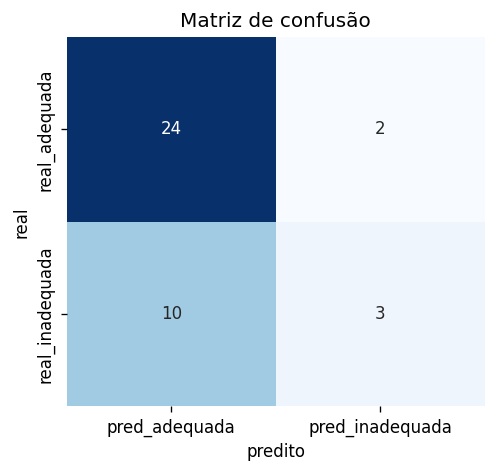
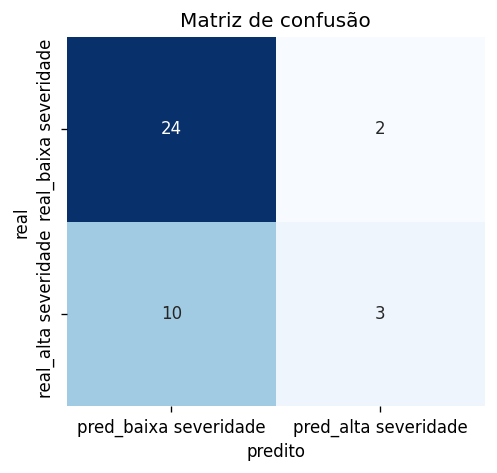
correção dados_organizados.csv

Changed region(s): [[0.0604, 0.0888, 0.1207, 0.8288], [0.1509, 0.8879, 0.5433, 0.9175], [0.5734, 0.8879, 0.9356, 0.9175]]

diff --git a/src/models/metrics.py b/src/models/metrics.py
@@ -54,10 +54,15 @@ def metricas_classificacao(y_true, y_pred) -> dict[str, float]:
     }
 
 
-def matriz_confusao_df(y_true, y_pred, labels=(0, 1)) -> pd.DataFrame:
-    """Matriz de confusão como ``DataFrame`` rotulado (linhas=real, colunas=predito)."""
+def matriz_confusao_df(y_true, y_pred, labels=(0, 1), nomes=None) -> pd.DataFrame:
+    """Matriz de confusão como ``DataFrame`` rotulado (linhas=real, colunas=predito).
+
+    ``nomes`` define os rótulos das classes (na ordem de ``labels``). Se ``None``,
+    usa ``["adequada", "inadequada"]`` para o caso binário 0/1.
+    """
     cm = confusion_matrix(y_true, y_pred, labels=list(labels))
-    nomes = ["adequada", "inadequada"] if set(labels) == {0, 1} else [str(x) for x in labels]
+    if nomes is None:
+        nomes = ["adequada", "inadequada"] if set(labels) == {0, 1} else [str(x) for x in labels]
     return pd.DataFrame(
         cm,
         index=[f"real_{n}" for n in nomes],

diff --git a/scripts/run_evaluate.py b/scripts/run_evaluate.py
@@ -101,8 +101,10 @@ def main() -> None:
     from models.reports import resumo_markdown
 
     md = resumo_markdown(secoes)
-    (config.REPORTS_DIR / "relatorio_resultados.md").write_text(md, encoding="utf-8")
-    LOG.info("Relatório salvo em reports/relatorio_resultados.md")
+    # Resumo automático em arquivo separado para NÃO sobrescrever o relatório
+    # completo escrito à mão (reports/relatorio_resultados.md).
+    (config.REPORTS_DIR / "relatorio_resultados_auto.md").write_text(md, encoding="utf-8")
+    LOG.info("Resumo automático salvo em reports/relatorio_resultados_auto.md")
     LOG.info("Figuras de avaliação geradas em %s", FIG)
 
     # Monta o relatório final em PDF (projeto §6) a partir das tabelas/figuras.

diff --git a/scripts/run_train.py b/scripts/run_train.py
@@ -78,7 +78,8 @@ def main() -> None:
     if rotulo.nunique() < 2:
         LOG.warning("Rótulo com uma única classe — Random Forest ignorado.")
     else:
-        res_rf = rf.treinar(scaled[feats_rf], rotulo)
+        res_rf = rf.treinar(scaled[feats_rf], rotulo,
+                            nomes_classes=["baixa severidade", "alta severidade"])
         saida["n_violacoes"] = contar_violacoes(imputado).values
         saida["inadequada"] = rotulo_estrito.values
         saida["severidade_alta"] = rotulo.values

diff --git a/reports/relatorio_resultados.md b/reports/relatorio_resultados.md
@@ -295,14 +295,21 @@ separação.
 | Cianobactérias (cel/mL) | **20.799** | 7.873 |
 | CLOROFILA (µg/L) | **81,2** | 25,3 |
 
-**Interpretação.** O K-Means separa dois **regimes de qualidade**:
-- **Cluster 0 (22%)** — água **mineralizada e eutrofizada**: alta condutividade,
-  alcalinidade, dureza, cloreto, clorofila e cianobactérias, com **baixa turbidez**.
-  Compatível com **período seco** (concentração de solutos, floração de algas).
-- **Cluster 1 (78%)** — água **turva e diluída**: alta turbidez e cor, baixa
-  condutividade. Compatível com **período chuvoso** (erosão eleva a turbidez; a chuva
-  dilui os íons). Útil ao manejo: o regime turvo exige filtragem; o eutrofizado, atenção
-  a algas/cianotoxinas e a entupimento biológico de emissores.
+**Interpretação.** O K-Means separa dois **regimes de qualidade** pelo eixo
+mineralização × turbidez:
+- **Cluster 0 (22%, n=42)** — água **mineralizada e eutrofizada**: alta condutividade
+  (548 µS/cm), alcalinidade, dureza, cloreto, clorofila e cianobactérias, com **baixa
+  turbidez** (20,8 FTU). É **mais frequente no período seco** (64% das suas amostras),
+  quando há concentração de solutos e floração de algas.
+- **Cluster 1 (78%, n=150)** — água **turva e diluída**: alta turbidez (75,3 FTU) e cor,
+  baixa condutividade (265 µS/cm); distribui-se quase igualmente entre as estações
+  (54% úmida, 46% seca).
+
+A associação com a sazonalidade é **moderada, não determinística** — ambos os regimes
+ocorrem nas duas estações (cluster 0: 64% seca / 36% úmida; cluster 1: 46% / 54%) —,
+mas o contraste mineralização × turbidez é nítido e operacionalmente útil: o regime
+turvo exige filtragem; o eutrofizado pede atenção a algas/cianotoxinas e a entupimento
+biológico de emissores.
 
 ### 3.4.2 Random Forest (classificação)
 

diff --git a/reports/relatorio_resultados_auto.md b/reports/relatorio_resultados_auto.md
@@ -1,0 +1,14 @@
+# Relatório — Qualidade da água PCJ (ML)
+
+## K-Means
+
+- k escolhido (silhueta): **2**
+- silhueta máxima: **0.279** (fraco, limiar 0,5)
+
+## Random Forest
+
+- acurácia: **0.692** | F1: **0.333** | precisão: 0.600 | recall: 0.231
+
+## Isolation Forest
+
+- taxa de anomalias: **0.073** (14 de 192 pontos)